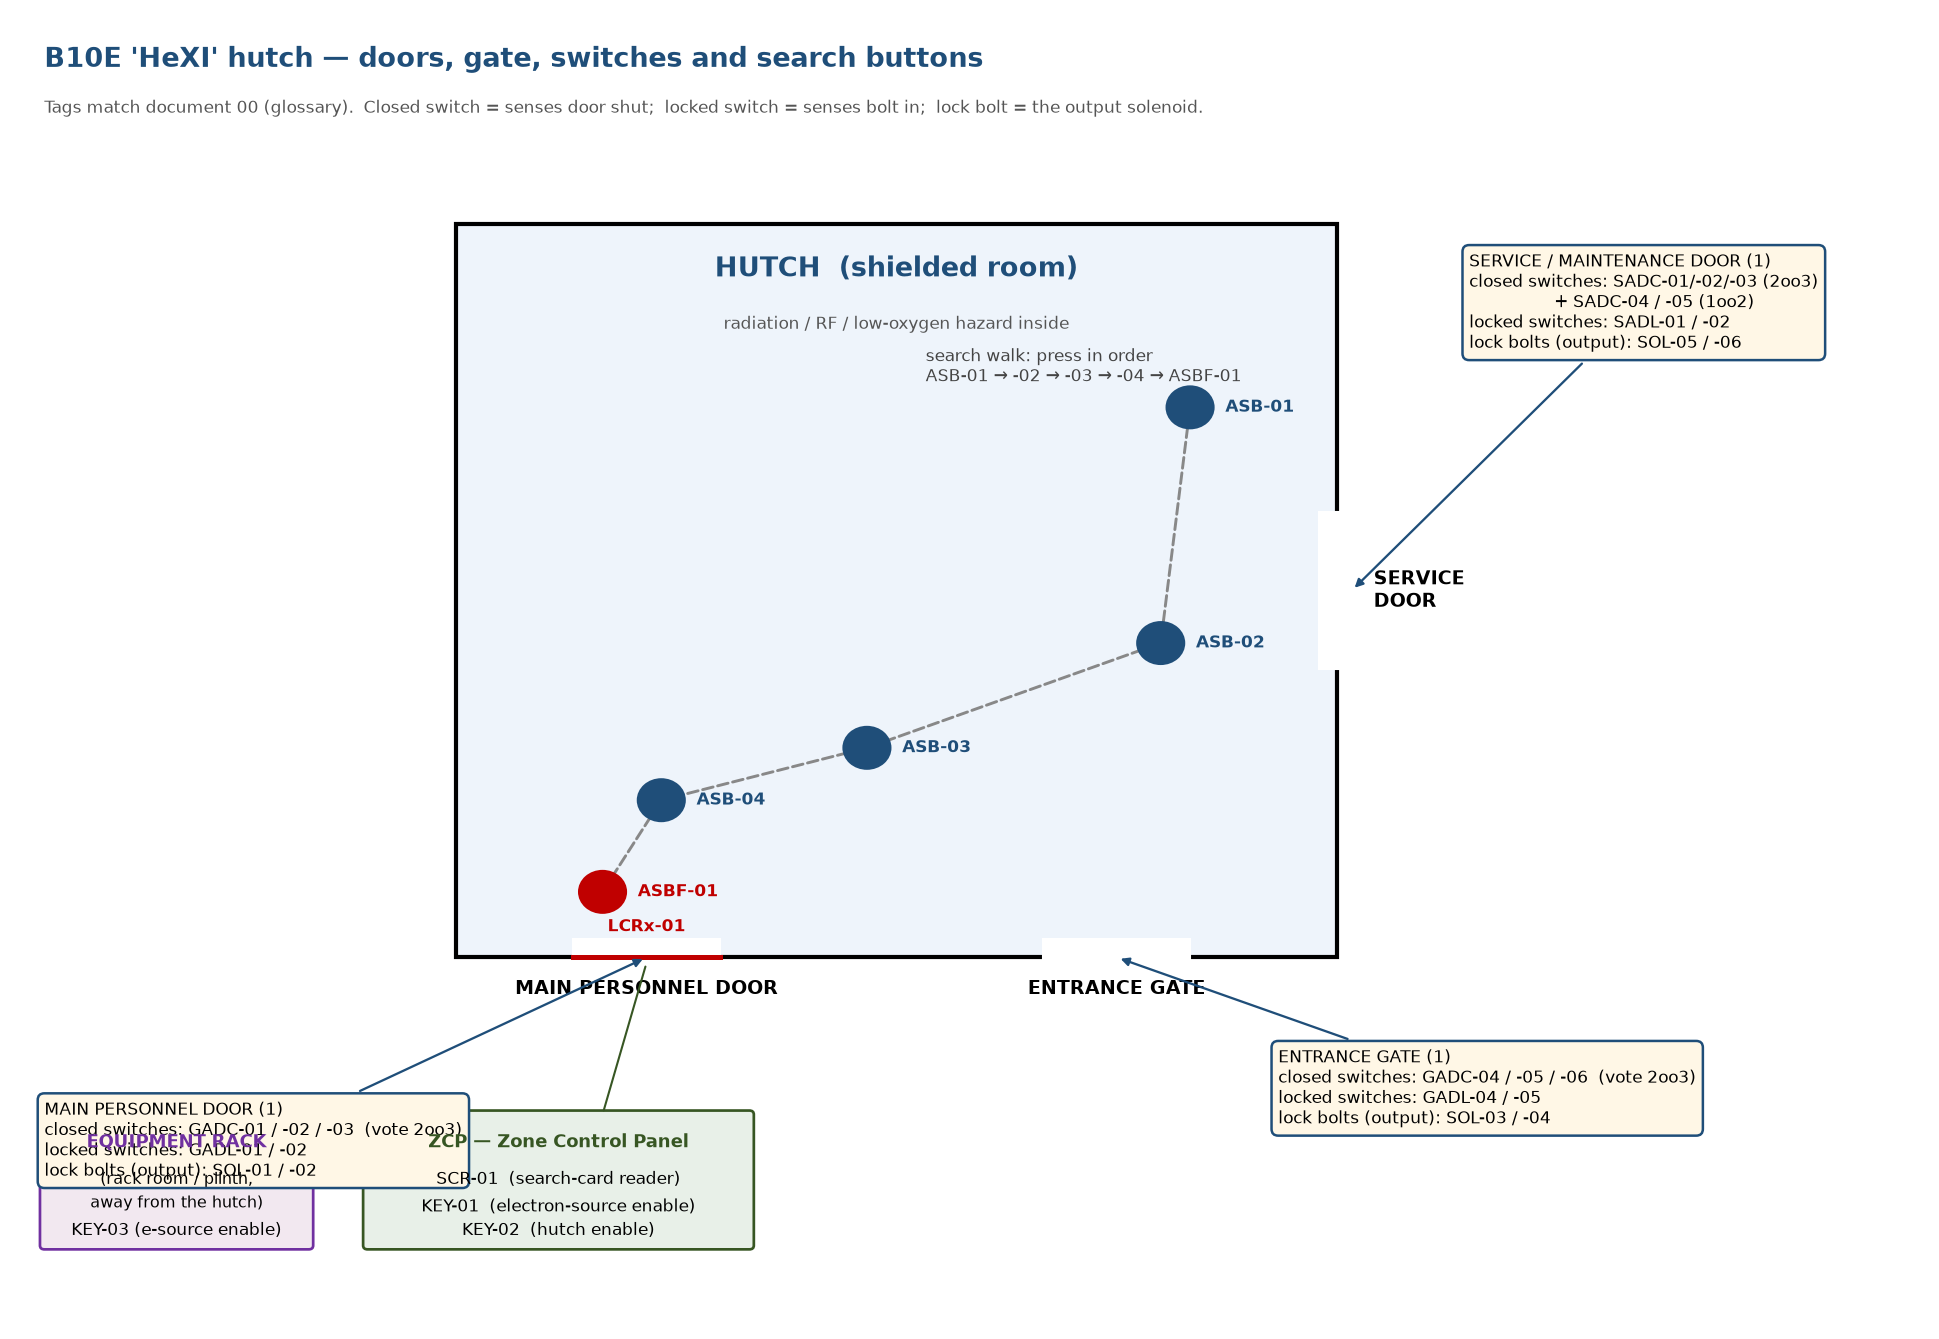
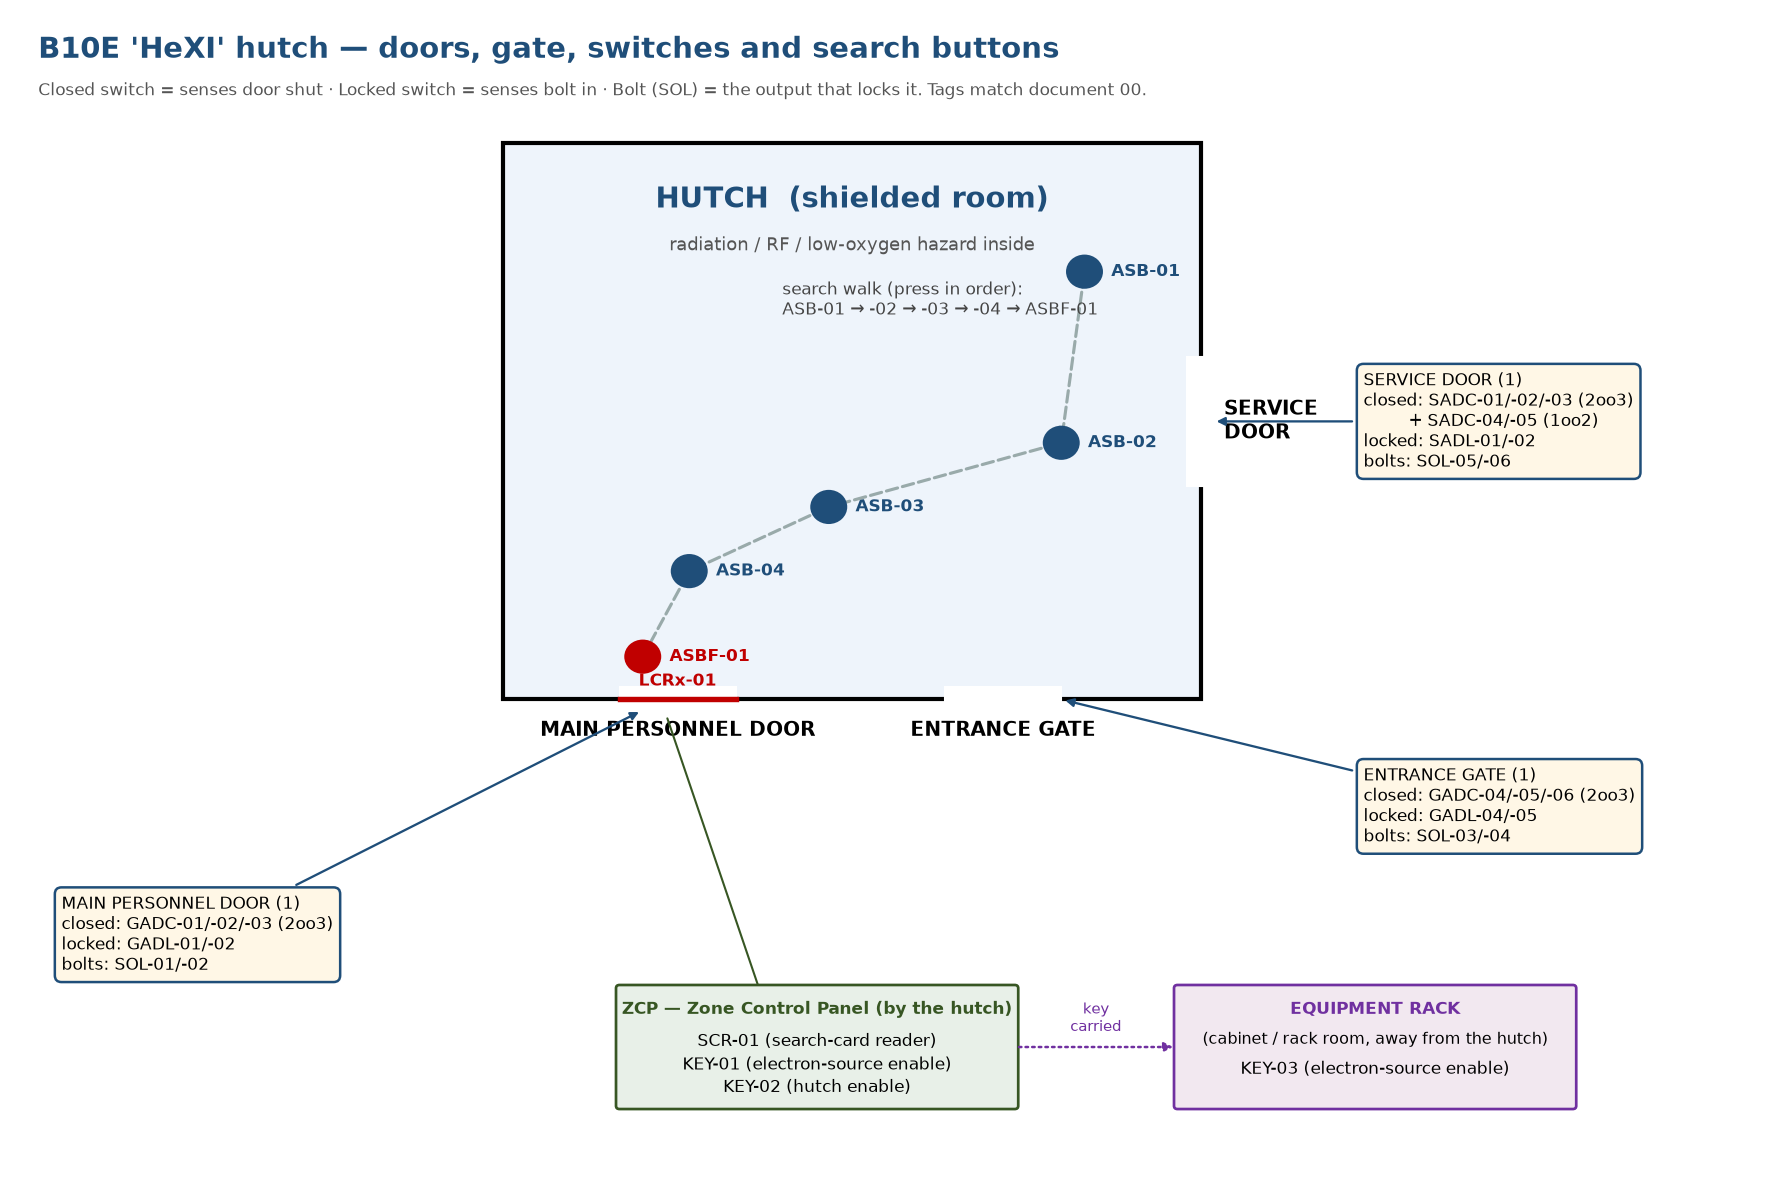
Sketch: fix overlapping boxes; add 'what each opening is for'
- Redrew docs/images/hutch_layout.png with the door/gate/service callouts,
  the ZCP panel and the equipment rack spaced out (no more overlap), and a
  dotted 'key carried' arrow showing the trapped-key move ZCP -> rack.
- Added a 'What each opening is for' note under the sketch in doc 00
  explaining the purpose of the main door, the gate and the service door.

https://claude.ai/code/session_01B7Wzzk93u6jpLVLM53Apna

diff --git a/B10E-PSS-Simulator/docs/00_TAG_GLOSSARY.md b/B10E-PSS-Simulator/docs/00_TAG_GLOSSARY.md
@@ -27,6 +27,26 @@ tables below give the detail.
 * **Locked switch** = senses the bolt has gone in (e.g. `GADL-01`).
 * **Lock bolt** = the output solenoid that actually locks it (e.g. `SOL-01`).
 
+### What each opening is for
+
+* **Main personnel door** — the normal way people walk into the hutch to set up,
+  align or maintain the experiment. Most entries use this door.
+* **Entrance gate** — a second general‑access opening (for example a wider gate to
+  bring equipment or trolleys in). It has its **own** safety function (SIF‑13) so
+  the gate and the door can be handled separately.
+* **Service door** — a separate way in for service / maintenance staff to reach
+  equipment, kept apart from the normal personnel route (its own function, SIF‑02).
+
+All three do the **same safety job**: control and prove entry so the hazard can
+never be on while a door is open or a person is inside. For every door the PLC:
+
+1. lets authorised people in or out **only when the hutch is OPEN** (safe);
+2. **locks** it shut (the `SOL‑…` bolts) while the hazard is armed, so nobody can
+   enter;
+3. watches its **closed** switches (`GADC` / `SADC`) — opening a door cuts the beam
+   in milliseconds — and its **locked** switches (`GADL` / `SADL`), which must prove
+   the bolt really went in before the beam is allowed on.
+
 ---
 
 ## A. Inputs — the doors and gates (position switches)